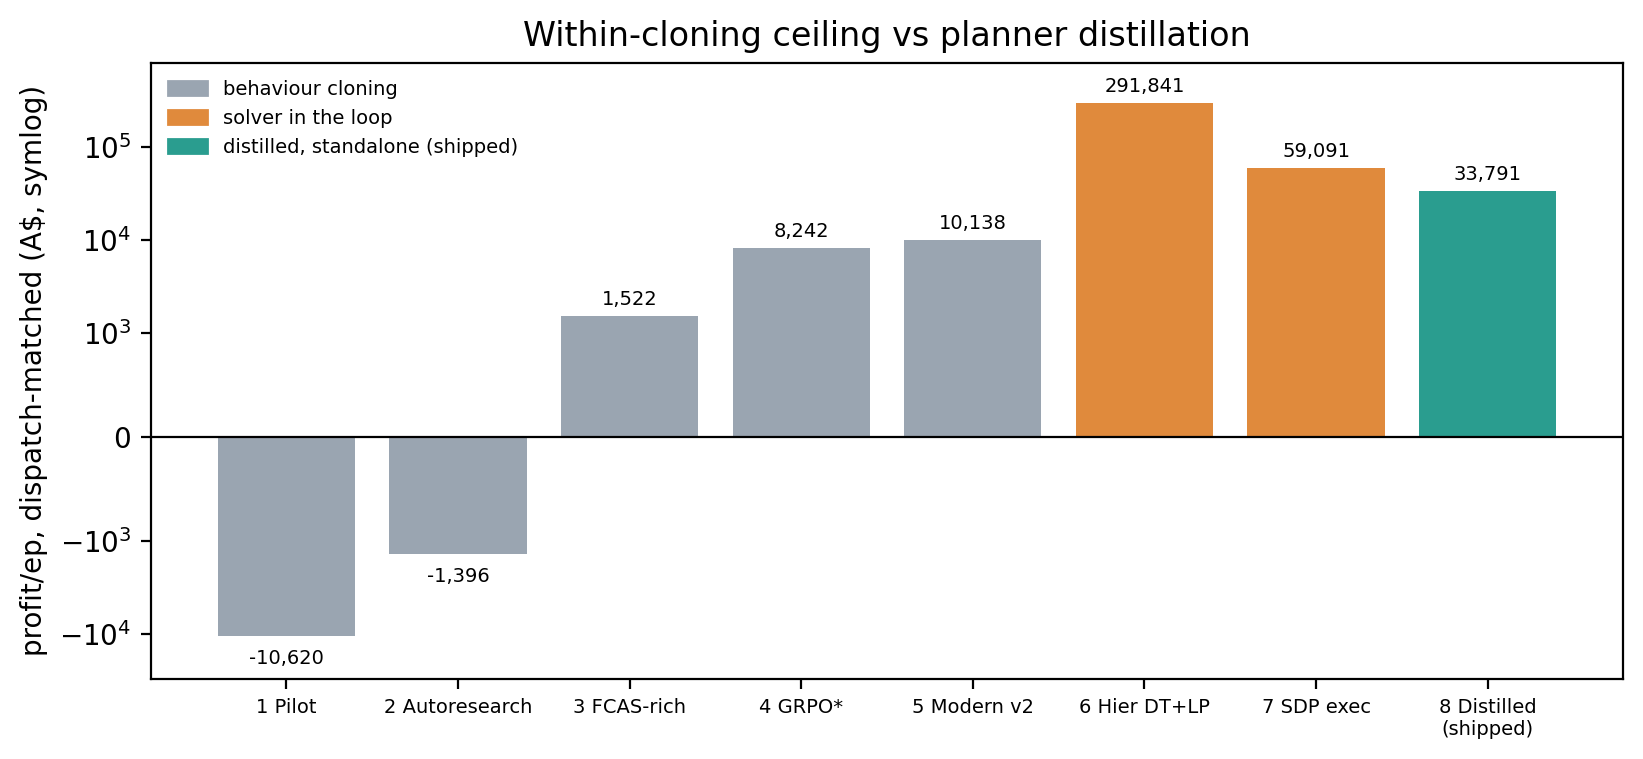
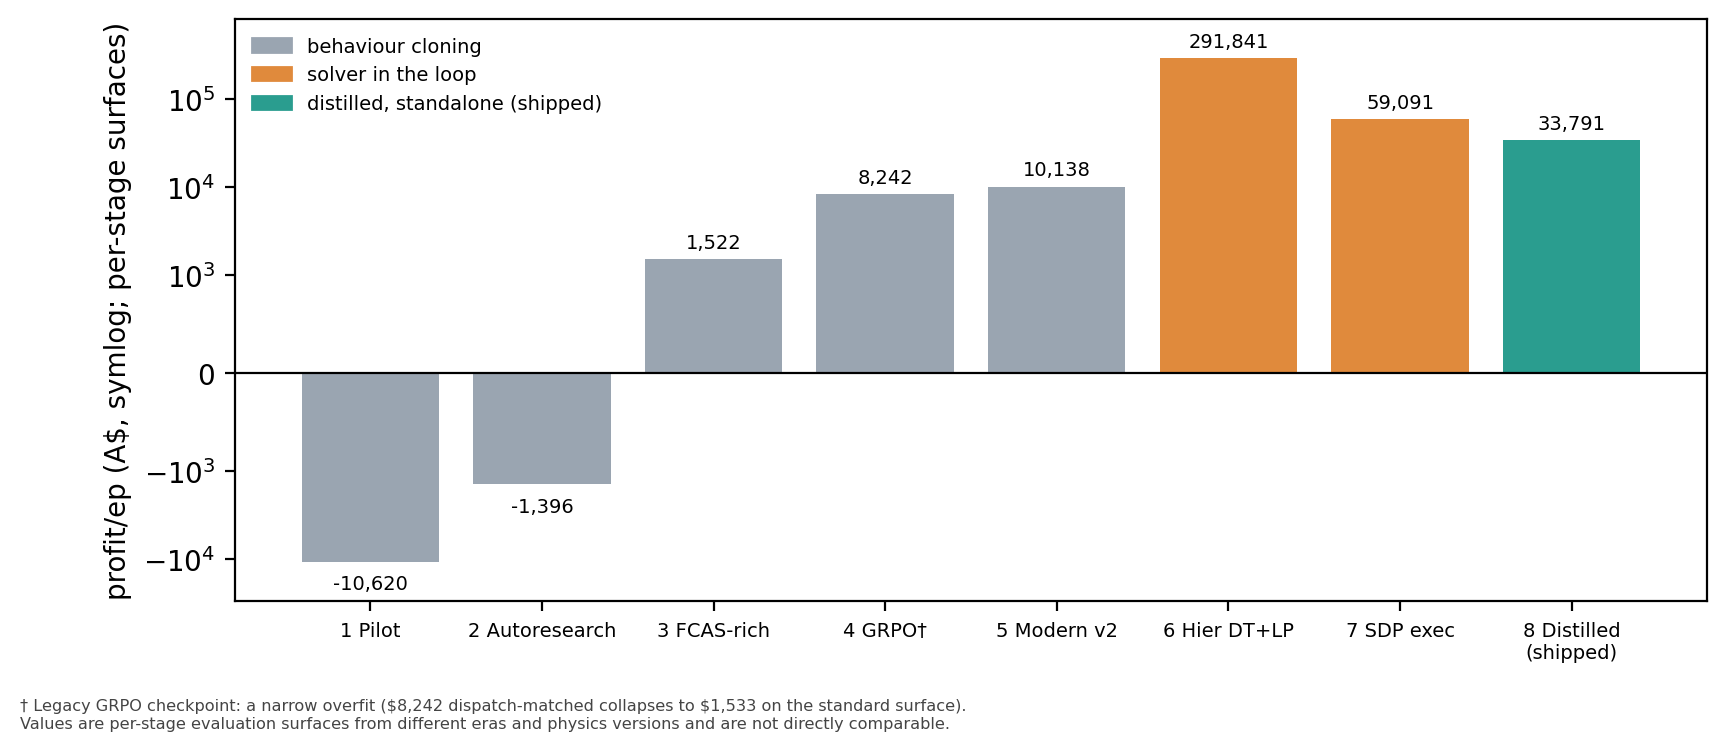
fig1: make the route-history chart honest (neutral title/axis, GRPO dagger, comparability note) and add intro callout

Changed region(s): [[0.0, 0.0, 0.9933, 0.98], [0.0, 0.2756, 0.031, 0.6738], [0.0, 0.1225, 0.031, 0.245]]

diff --git a/scripts/stagec_paper_figures_v2.py b/scripts/stagec_paper_figures_v2.py
@@ -220,14 +220,20 @@ def fig3_jtsoc_heatmap(out_dir: Path) -> None:
 def fig6_ceiling_break(out_dir: Path) -> None:
     from matplotlib.patches import Patch
 
-    # Values: report.md §8.2.7 improvement-trajectory table (profit/ep, dispatch-matched);
-    # stage 8 = shipped SA1 full-year. Solver stages marked.
-    stages = ["1 Pilot", "2 Autoresearch", "3 FCAS-rich", "4 GRPO*", "5 Modern v2",
-              "6 Hier DT+LP", "7 SDP exec", "8 Distilled\n(shipped)"]
+    # Route history, not ceiling evidence. Values are report.md §8.2.7
+    # improvement-trajectory numbers, each from a different evaluation surface,
+    # era, and physics version: stages 1-5 predate the physics-v2 re-baseline,
+    # stage 6 is the perfect-foresight LP, stage 7 is solver-in-the-loop, and
+    # stage 8 is the extended dispatch-matched surface. The bars are therefore
+    # not directly comparable; the behaviour-cloning ceiling itself is
+    # documented by the within-cloning levers in Appendix A.
+    stages = ["1 Pilot", "2 Autoresearch", "3 FCAS-rich", "4 GRPO\u2020",
+              "5 Modern v2", "6 Hier DT+LP", "7 SDP exec",
+              "8 Distilled\n(shipped)"]
     vals = [-10620, -1396, 1522, 8242, 10138, 291841, 59091, 33791]
     colors = ["#9aa5b1"] * 5 + ["#e08a3c"] * 2 + ["#2a9d8f"]
 
-    fig, ax = plt.subplots(figsize=(9.5, 4.0))
+    fig, ax = plt.subplots(figsize=(9.5, 4.1))
     x = np.arange(len(vals))
     ax.bar(x, vals, color=colors)
     for i, v in enumerate(vals):
@@ -240,13 +246,20 @@ def fig6_ceiling_break(out_dir: Path) -> None:
     ax.yaxis.set_minor_locator(matplotlib.ticker.NullLocator())
     ax.set_xticks(x)
     ax.set_xticklabels(stages, fontsize=7)
-    ax.set_ylabel("profit/ep, dispatch-matched (A$, symlog)")
-    ax.set_title("Within-cloning ceiling vs planner distillation")
+    ax.set_ylabel("profit/ep (A$, symlog; per-stage surfaces)")
     ax.legend(handles=[
         Patch(color="#9aa5b1", label="behaviour cloning"),
         Patch(color="#e08a3c", label="solver in the loop"),
         Patch(color="#2a9d8f", label="distilled, standalone (shipped)"),
     ], frameon=False, fontsize=7, loc="upper left")
+    fig.text(
+        0.012, 0.012,
+        "\u2020 Legacy GRPO checkpoint: a narrow overfit (\\$8,242 dispatch-matched "
+        "collapses to \\$1,533 on the standard surface).\n"
+        "Values are per-stage evaluation surfaces from different eras and physics "
+        "versions and are not directly comparable.",
+        fontsize=5.8, color="#444444", ha="left", va="bottom")
+    fig.subplots_adjust(bottom=0.17)
     _save(fig, out_dir, "fig6_ceiling_break")
 
 

diff --git a/paper/manuscript/main.tex b/paper/manuscript/main.tex
@@ -146,7 +146,9 @@ from the control loop; we do not isolate the cause of this surface dependence.
 All
 results are simulator-based and driven by historical NEM data; sim-to-real
 transfer is the main open question. Code, trajectory corpora, and model weights
-are released with this paper.
+are released with this paper. Figure~\ref{fig:ceiling} sketches the historical
+route across model variants; the within-cloning levers behind it are itemised in
+Appendix~\ref{app:ceiling}.
 
 \begin{figure}[H]
   \centering
